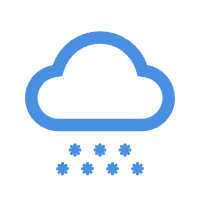
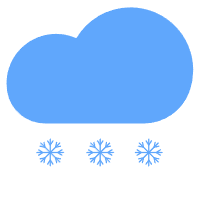
更新图标、完善获取城市方法、修改选择城市弹窗样式

diff --git a/components/LocalPopup.vue b/components/LocalPopup.vue
@@ -1,15 +1,16 @@
 <template>
 	<up-popup v-model:show="show" @close="closeHandler">
 		<view class="popup">
+			<view class="title">选择城市</view>
 			<!-- <up-input prefix-icon="search" placeholder="搜索城市..."></up-input> -->
 			<view class="">
-				<scroll-view scroll-y="true" style="height: 90vh">
+				<scroll-view scroll-y="true" style="height: 80vh">
 					<up-collapse>
 						<template v-for="c in cities">
 							<up-collapse-item :title="c.province" name="Docs guide">
 								<up-list>
 									<up-list-item v-for="i in c.city">
-										<up-button plain @click="selectHandler(i)">{{i}}</up-button>
+										<view class="city" @click="selectHandler(i)">{{i}}</view>
 									</up-list-item>
 								</up-list>
 							</up-collapse-item>
@@ -60,7 +61,24 @@
 
 <style scoped lang="scss">
 	.popup {
-		height: 90vh;
-		padding-top: 80rpx;
+		height: 80vh;
+		padding-bottom: 80rpx;
+	}
+
+	.title {
+		height: 80rpx;
+		display: flex;
+		align-items: center;
+		padding: 0 30rpx;
+		font-size: 40rpx;
+		font-weight: bold;
+	}
+
+	.city {
+		margin: 15rpx 20rpx;
+		padding: 30rpx 20rpx;
+		background-color: rgba(200, 200, 200, 0.3);
+		border-radius: 15rpx;
+		box-shadow: 1rpx 1rpx 40rpx rgba(200, 200, 200, 0.3);
 	}
 </style>

diff --git a/utils/cities.js b/utils/cities.js
@@ -170,20 +170,26 @@ export function filterCities() {
 			let citiesCopy = Array.isArray(cities) ? [...cities] : [];
 
 			const singnCity = {
-				"privince": "地级市",
+				"province": "地级市",
 				"city": []
 			};
 
 			for (let i = citiesCopy.length - 1; i >= 0; i--) {
 				const item = citiesCopy[i];
 				// 将地级市单独陈列
-				if (item.length === 1) {
-					singnCity.city.push(item);
+				if (item.city.length === 1) {
+					singnCity.city.push(...item.city);
+					citiesCopy.splice(i, 1);
+				}
+
+				if (item.province === '台湾省') {
 					citiesCopy.splice(i, 1);
 				}
 			}
 
-			resolve(citiesCopy.reverse())
+			const res = [singnCity].concat(citiesCopy)
+			console.log(res);
+			resolve(res)
 
 		} catch (error) {
 			//TODO handle the exception

diff --git a/pages/index/index.vue b/pages/index/index.vue
@@ -133,6 +133,9 @@
 		ref,
 		watch
 	} from 'vue';
+	import {
+		onPullDownRefresh
+	} from "@dcloudio/uni-app"
 	import http from '../../utils/http';
 
 	const baseUrl = 'https://uapis.cn'
@@ -182,7 +185,13 @@
 	})
 
 
-	watch(() => show.value, (val) => {})
+	onPullDownRefresh(async () => {
+		uni.stopPullDownRefresh()
+		loading.value = true
+		await getCurrentIp()
+		await getWeather()
+		loading.value = false
+	})
 </script>
 
 <style lang="scss" scoped>

diff --git a/readme.md b/readme.md
@@ -112,7 +112,7 @@ MIT
 ## 致谢
 
 - 天气数据由 [uapis.cn](https://uapis.cn) 提供
-- 图标资源来源于网络
+- 图标由 [安妮](https://www.iconfont.cn/collections/detail?spm=a313x.user_detail.i1.dc64b3430.6b383a81Jts52J&cid=6324) 提供
 
 ---
 
